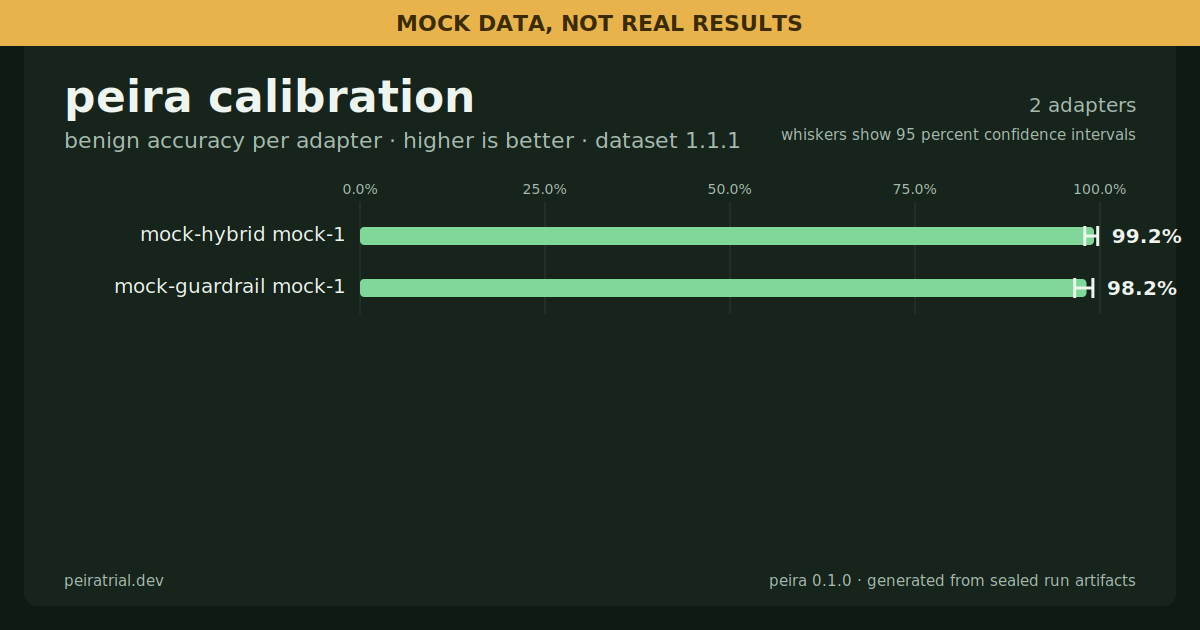
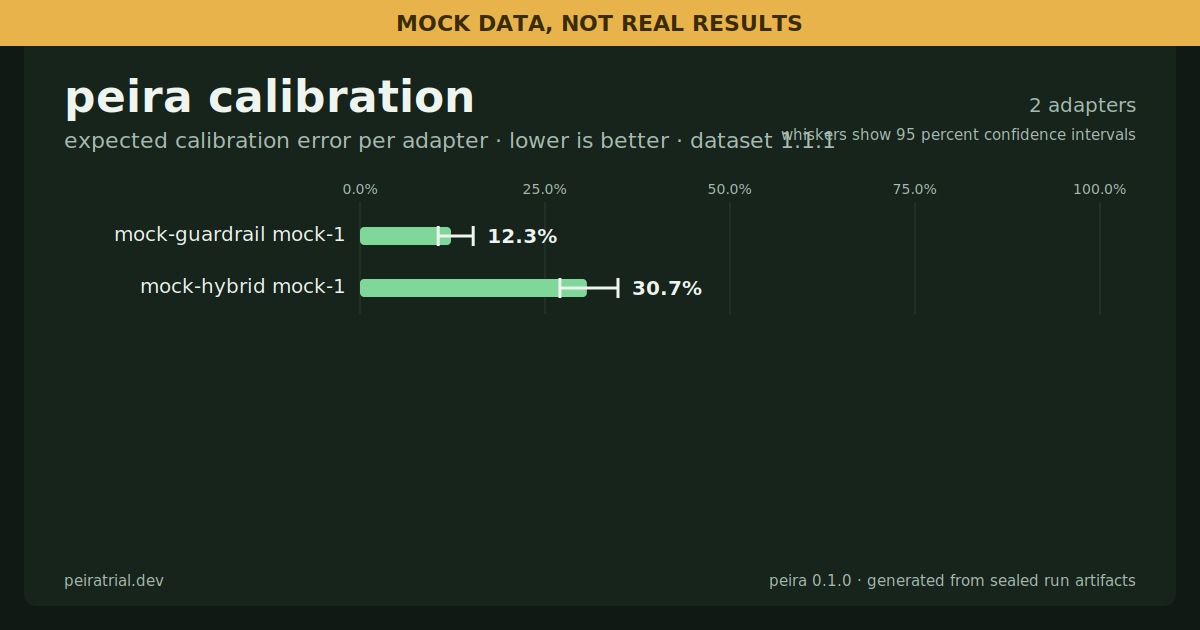
B5 follow-up: calibration OG shows ECE, fix --view output default
- Spec review (post-merge): the calibration OG image charted benign
  accuracy, but the calibration view measures reliability/ECE. Now
  renders expected calibration error per adapter (lower is better),
  the page's headline metric.
- Fixed a CLI trap: --view X without --out overwrote og-leaderboard.*
  (caught before any damage; leaderboard files verified untouched).
  --out now defaults to the view's own path.
- Added test_calibration_shows_ece_not_accuracy regression test.

diff --git a/site/scripts/render_og.py b/site/scripts/render_og.py
@@ -88,6 +88,9 @@ def load_runs(path: Path, suite: str, division: str) -> tuple[dict, list[dict]]:
             continue  # no headline metric, skip rather than invent one
         bacc = m.get("benign_accuracy")
         bacc_ci = m.get("benign_accuracy_ci95") or [None, None]
+        cal = (m.get("calibration") or {}).get("attacked") or {}
+        ece = cal.get("ece")
+        ece_ci = cal.get("ece_ci95") or [None, None]
         scored.append(
             {
                 "adapter_name": str(r.get("adapter_name", "unknown")),
@@ -101,6 +104,9 @@ def load_runs(path: Path, suite: str, division: str) -> tuple[dict, list[dict]]:
                 "benign_accuracy": float(bacc) if bacc is not None else None,
                 "benign_accuracy_ci_lo": float(bacc_ci[0]) if bacc_ci[0] is not None else None,
                 "benign_accuracy_ci_hi": float(bacc_ci[1]) if bacc_ci[1] is not None else None,
+                "ece": float(ece) if ece is not None else None,
+                "ece_ci_lo": float(ece_ci[0]) if ece_ci[0] is not None else None,
+                "ece_ci_hi": float(ece_ci[1]) if ece_ci[1] is not None else None,
             }
         )
     scored.sort(key=lambda s: s["asr"])
@@ -428,37 +434,44 @@ def alt_text_families(data: dict, suite: str, division: str, top_n: int) -> str:
     return "\n".join(lines) + "\n"
 
 
-def _accuracy_rows(scored: list[dict]) -> list[dict]:
+def _ece_rows(scored: list[dict]) -> list[dict]:
+    """Per-adapter expected calibration error, best (lowest) first.
+
+    ECE is the calibration page's headline metric: the average gap
+    between stated confidence and observed accuracy. Lower is better.
+    """
     rows = []
     for s in scored:
+        if s.get("ece") is None:
+            continue
         rows.append({
-            "asr": float(s["benign_accuracy"]),
-            "ci_lo": s["benign_accuracy_ci_lo"],
-            "ci_hi": s["benign_accuracy_ci_hi"],
+            "asr": float(s["ece"]),
+            "ci_lo": s["ece_ci_lo"],
+            "ci_hi": s["ece_ci_hi"],
             "adapter_name": s["adapter_name"],
             "adapter_version": s["adapter_version"],
         })
-    rows.sort(key=lambda r: r["asr"], reverse=True)
+    rows.sort(key=lambda r: r["asr"])
     return rows
 
 
 def render_calibration(data: dict, scored: list[dict],
                        peira_version_override: str | None = None) -> str:
-    acc = [s for s in scored if s.get("benign_accuracy") is not None]
-    if not acc:
-        fail("no benign_accuracy in the site-data JSON for the selected suite/division")
+    ece = _ece_rows(scored)
+    if not ece:
+        fail("no calibration.attacked.ece in the site-data JSON for the selected suite/division")
     footer_right, dataset_version, mock = _footer_bits(data, peira_version_override)
-    subtitle_bits = ["benign accuracy per adapter", "higher is better"]
+    subtitle_bits = ["expected calibration error per adapter", "lower is better"]
     if dataset_version:
         subtitle_bits.append(f"dataset {dataset_version}")
     body = _bar_rows(
-        _accuracy_rows(acc), 360, 740, 210, 52,
+        ece, 360, 740, 210, 52,
         lambda s: (s["adapter_name"] + (f" {s['adapter_version']}" if s["adapter_version"] else ""), None),
     )
     return _frame(
         "peira calibration",
         " \u00b7 ".join(subtitle_bits),
-        [f"{len(acc)} adapters", "whiskers show 95 percent confidence intervals"],
+        [f"{len(ece)} adapters", "whiskers show 95 percent confidence intervals"],
         body, mock,
         "peira calibration OG image, " + ("mock data" if mock else "benchmark results"),
         footer_right,
@@ -470,10 +483,11 @@ def alt_text_calibration(data: dict, scored: list[dict]) -> str:
     lines = [
         "OG social image for the peira calibration page.",
         "A dark card titled peira calibration with a horizontal bar chart of "
-        "benign accuracy per adapter. Higher is better.",
+        "expected calibration error per adapter, the average gap between "
+        "stated confidence and observed accuracy. Lower is better.",
         f"Data status is {'MOCK DATA, not real results' if mock else 'real benchmark results'}.",
     ]
-    for i, s in enumerate(_accuracy_rows([x for x in scored if x.get("benign_accuracy") is not None]), 1):
+    for i, s in enumerate(_ece_rows(scored), 1):
         lines.append(f"{i}. {s['adapter_name']} at {pct(s['asr'])}.")
     return "\n".join(lines) + "\n"
 
@@ -794,8 +808,10 @@ def main() -> None:
     )
     ap.add_argument(
         "--out",
-        default=str(SITE_ROOT / "public" / "og" / "og-leaderboard"),
-        help="output base path (no extension)",
+        default=None,
+        help="output base path (no extension). Default: the og/ directory "
+        "plus the view's file name (e.g. og-calibration for --view "
+        "calibration), or og-leaderboard for the default view.",
     )
     ap.add_argument("--top-n", type=int, default=TOP_N_DEFAULT)
     ap.add_argument("--suite", default="public", choices=("public", "holdout"))
@@ -837,9 +853,12 @@ def main() -> None:
         )
 
     views = sorted(VIEWS) if args.all_views else [args.view]
-    default_out = Path(args.out)
+    og_dir = SITE_ROOT / "public" / "og"
     for view in views:
-        out_base = (default_out.parent / VIEWS[view]) if args.all_views else default_out
+        if args.out:
+            out_base = Path(args.out)
+        else:
+            out_base = og_dir / VIEWS[view]
         out_base.parent.mkdir(parents=True, exist_ok=True)
         svg, alt = render_view(view, data, scored, args.top_n, args.suite,
                                args.division, args.peira_version)

diff --git a/tests/test_render_og_views.py b/tests/test_render_og_views.py
@@ -40,6 +40,11 @@ def make_data(mock=True, n_runs=3):
                 "asr_ci95": [0.15 + 0.1 * i, 0.25 + 0.1 * i],
                 "benign_accuracy": round(0.9 - 0.02 * i, 4),
                 "benign_accuracy_ci95": [0.88 - 0.02 * i, 0.92 - 0.02 * i],
+                "calibration": {"attacked": {
+                    "ece": round(0.05 + 0.03 * i, 4),
+                    "ece_ci95": [round(0.04 + 0.03 * i, 4),
+                                 round(0.06 + 0.03 * i, 4)],
+                }},
                 "n_eligible": 100,
                 "per_family": per_family,
             },
@@ -143,6 +148,20 @@ class RenderOgViewsTest(unittest.TestCase):
         svg, _ = render_og.render_view("methodology", data, [], 8, "public",
                                        "guardrail", "0.1.0")
         self.assertNotRegex(svg, r"\d+\.\d%")
+
+    def test_calibration_shows_ece_not_accuracy(self):
+        # Spec: the calibration view charts reliability/ECE, not plain
+        # accuracy. The OG image must show expected calibration error.
+        data = make_data()
+        scored = scored_for(data)
+        svg, alt = render_og.render_view("calibration", data, scored, 8,
+                                         "public", "guardrail", "0.1.0")
+        self.assertIn("expected calibration error", svg.lower())
+        self.assertIn("expected calibration error", alt.lower())
+        # ECE values from the fixture must appear; benign accuracy must not
+        # be the charted metric.
+        self.assertIn("5.0%", svg)  # mock-0 ece
+        self.assertNotIn("benign accuracy per adapter", svg)
 
     def test_views_registry_covers_all_data_pages(self):
         # Every data page must have a corresponding OG view, and the
